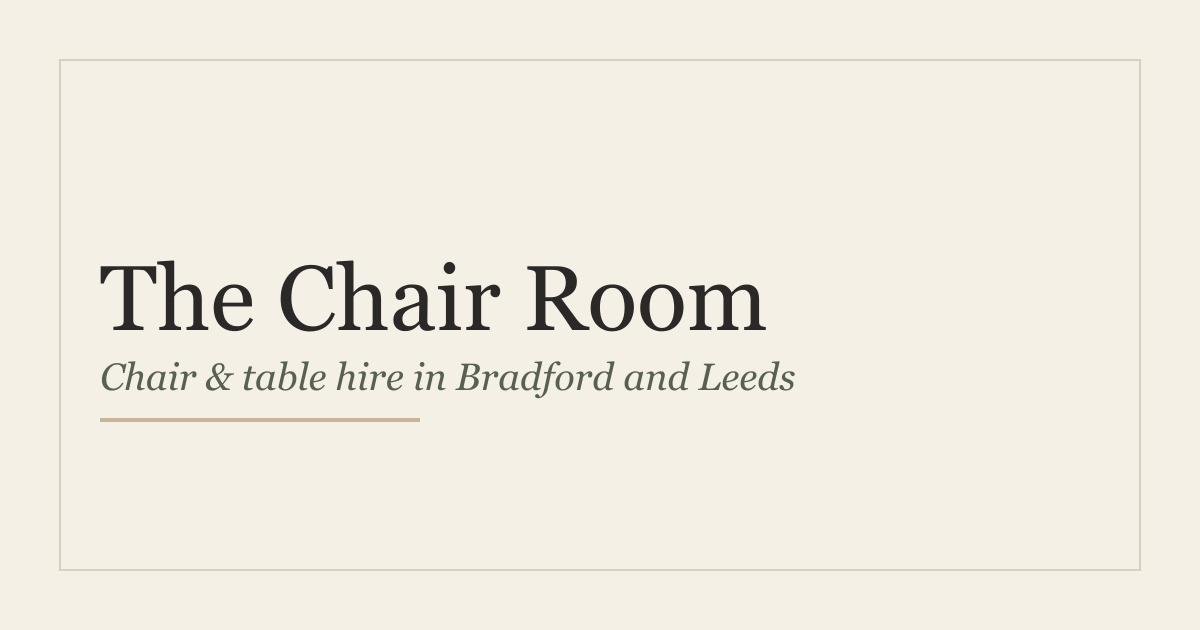
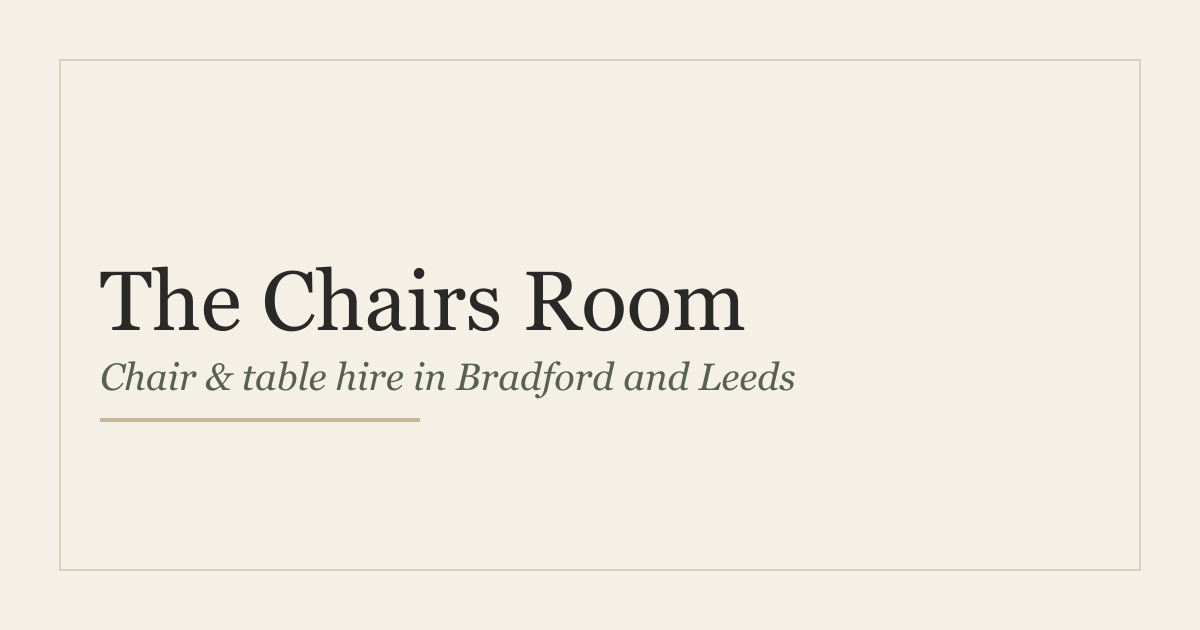
Rename business to The Chairs Room
Updates the display name everywhere it was hardcoded (SEO titles,
WhatsApp greeting, console warning, OG image, README, Instagram
placeholder, site URL placeholders) rather than just in business.ts,
since a couple of spots had the old name baked into a literal string.

Changed region(s): [[0.0617, 0.3921, 0.6475, 0.5429]]

diff --git a/src/data/business.ts b/src/data/business.ts
@@ -2,7 +2,7 @@
 // Change a price, phone number or area here — nothing else needs touching.
 
 export const business = {
-  name: "The Chair Room",
+  name: "The Chairs Room",
   strapline: "Chair & table hire in Bradford and Leeds",
 
   phoneDisplay: "07453 112353",
@@ -43,22 +43,22 @@ export const business = {
   },
 
   social: {
-    instagram: "https://instagram.com/thechairroom", // PLACEHOLDER — confirm real handle
+    instagram: "https://instagram.com/thechairsroom", // PLACEHOLDER — confirm real handle
   },
 
   // Update this alongside astro.config.mjs `site` and public/robots.txt
   // once the Cloudflare Pages / custom domain URL is final.
-  siteUrl: "https://thechairroom.pages.dev",
+  siteUrl: "https://thechairsroom.pages.dev",
 
   seo: {
-    titleHome: "Chair & Table Hire Bradford & Leeds | The Chair Room",
-    titleBook: "Book Your Chairs | The Chair Room",
-    titleTerms: "Hire Terms | The Chair Room",
+    titleHome: "Chair & Table Hire Bradford & Leeds | The Chairs Room",
+    titleBook: "Book Your Chairs | The Chairs Room",
+    titleTerms: "Hire Terms | The Chairs Room",
     descriptionHome:
       "Wooden chiavari chairs and 6ft tables for hire across Bradford, Leeds and West Yorkshire. £4 a chair, £10 a table. Collect from Bradford, or we'll deliver.",
     descriptionBook:
       "Pick your chairs, tables and dates, then send your booking request straight to WhatsApp.",
-    descriptionTerms: "Plain-English hire terms for The Chair Room.",
+    descriptionTerms: "Plain-English hire terms for The Chairs Room.",
   },
 } as const;
 

diff --git a/src/data/reviews.ts b/src/data/reviews.ts
@@ -1,6 +1,8 @@
 // Real WhatsApp reviews go here — first names only, no phone numbers.
 // Every entry below is a placeholder. The build logs a warning until they're replaced.
 
+import { business } from "./business";
+
 export interface Review {
   name: string;
   text: string;
@@ -39,6 +41,6 @@ export const hasPlaceholderReviews = reviews.some((r) => r.placeholder);
 
 if (hasPlaceholderReviews && import.meta.env.PROD) {
   console.warn(
-    "[The Chair Room] WARNING: placeholder reviews are still in src/data/reviews.ts. Replace them with real customer reviews before launch.",
+    `[${business.name}] WARNING: placeholder reviews are still in src/data/reviews.ts. Replace them with real customer reviews before launch.`,
   );
 }

diff --git a/src/lib/booking-logic.ts b/src/lib/booking-logic.ts
@@ -163,7 +163,7 @@ export function buildWhatsAppMessage(details: BookingDetails): string {
       : "Delivery & collection: No — I'll collect";
 
   const lines = [
-    "Hi, I'd like to book with The Chair Room.",
+    `Hi, I'd like to book with ${business.name}.`,
     "",
     `Name: ${details.name}`,
     `Phone: ${details.phone}`,

diff --git a/README.md b/README.md
@@ -1,4 +1,4 @@
-# The Chair Room
+# The Chairs Room
 
 Chair & table hire in Bradford and Leeds. Static site built with Astro,
 plain CSS and a small vanilla TypeScript booking form — no backend,
